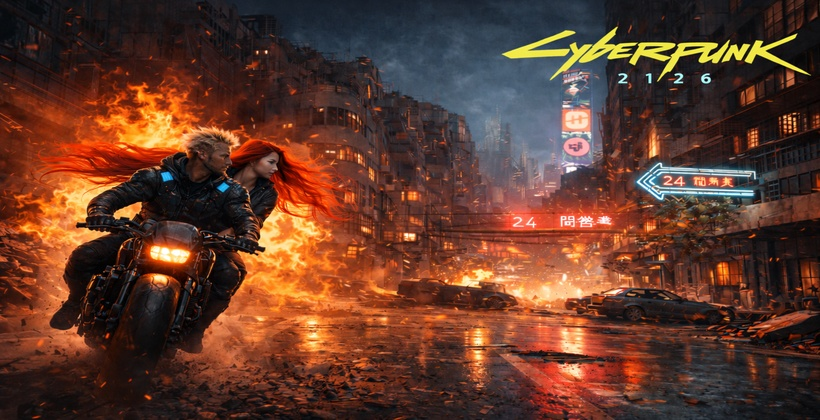
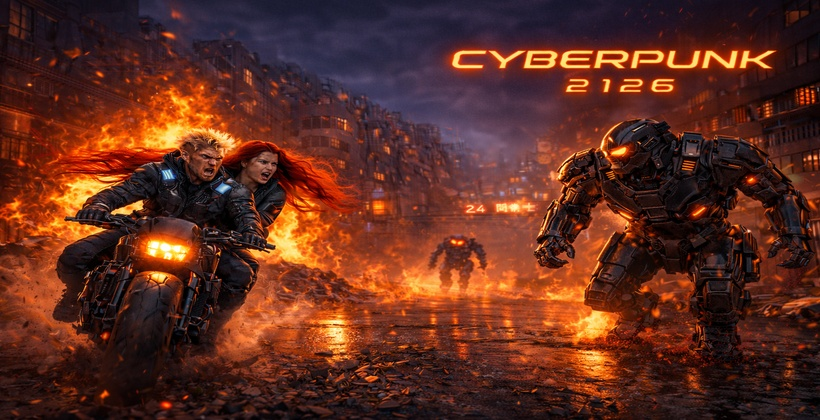
Clack_Ver5_image2_AIロボット追加

diff --git a/Clock_Cyberpunk/Clock_Cyberpunk_Ver1.html b/Clock_Cyberpunk/Clock_Cyberpunk_Ver1.html
@@ -10,7 +10,7 @@
             font-size: 80px;
             font-family: monospace;
 
-            background-image: url("CPイメージ.jpeg");
+            background-image: url("CP_image_1.jpeg");
             background-size: cover;
             background-position: center;
             background-repeat: no-repeat;

diff --git a/Clock_Cyberpunk/Clock_Cyberpunk_Ver2.html b/Clock_Cyberpunk/Clock_Cyberpunk_Ver2.html
@@ -8,7 +8,7 @@
       text-align: center;
       font-size: 120px;
       font-family: monospace;
-      background-image: url("CPイメージ.jpeg");
+      background-image: url("CP_image_1.jpg");
       background-size: cover;
       background-position: center;
       background-repeat: no-repeat;

diff --git a/Clock_Cyberpunk/Clock_Cyberpunk_Ver3.html b/Clock_Cyberpunk/Clock_Cyberpunk_Ver3.html
@@ -8,7 +8,7 @@
       text-align: center;
       font-size: 120px;
       font-family: monospace;
-      background-image: url("CPイメージ.jpeg");
+      background-image: url("CP_image_1.jpg");
       background-size: cover;
       background-position: center;
       background-repeat: no-repeat;
